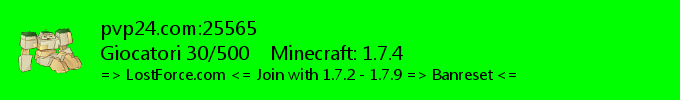
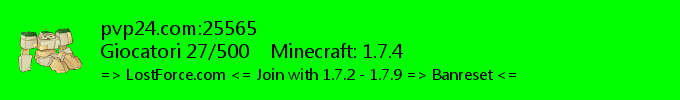
added caching

Changed region(s): [[0.1235, 0.42, 0.3706, 0.6], [0.4015, 0.42, 0.5868, 0.6]]

diff --git a/banner/Extended.class.php b/banner/Extended.class.php
@@ -47,7 +47,12 @@ class minecraft{
         $fb="segoeuib.ttf";
         if(!$response) {
             imagefill($img,0,0,$crosso);
-            imagettftext($img,15,0,20,40,$color,$fn,$host.":".$port);
+            $favicon="tmp/favicon/".$host."-".$port."-favicon.png";
+            if(file_exists($favicon)){
+                $imag=imagecreatefrompng($favicon);
+                imagecopyresampled($img,$imag,18,18,0,0,64,64,64,64);
+            }
+            imagettftext($img,15,0,100,35,$color,$fn,$host.":".$port);
         }else {
             imagefill($img,0,0,$cverde);
             $v=$response['version'];
@@ -62,7 +67,7 @@ class minecraft{
             imagettftext($img,$lchar,0,100,80,$color,$fn,$motd);
             imagettftext($img,15,0,270,58,$color,$fn,"Minecraft: ".$v);
             imagesavealpha($imag, TRUE);
-            imagepng($imag,"tmp/".$host."-".$port."-favicon.png");
+            imagepng($imag,"tmp/favicon/".$host."-".$port."-favicon.png");
         }
         $dir='tmp/'.$host.'-'.$port.'.png';
         imagepng($img, $dir);

diff --git a/banner/test.php b/banner/test.php
@@ -5,8 +5,17 @@ $tool->mrequire(["Setting.class.php","Extended.class.php"]);
 $mine=new minecraft();
 if(isset($_GET["host"])){$host=$_GET["host"];}else{$host="192.168.0.2";}
 if(isset($_GET["port"])){$port=$_GET["port"];}else{$port=25565;}
-$response=$mine->Status($host,"1.7.*",$port);
 print('<meta charset="utf-8">');
 
+$dir="tmp/".$host."-".$port.".png";
+$ctime=time();
+$ftime=@filemtime($dir) or 0;
+$difftime=$ctime-$ftime;
+$time=floor($difftime/60);
+if($time>=1){
+$response=$mine->Status($host,"1.7.*",$port);
 echo $mine->CreateImage($response,$host,$port);
+}else{
+echo "<img src=\"$dir\">";
+}
 ?>
